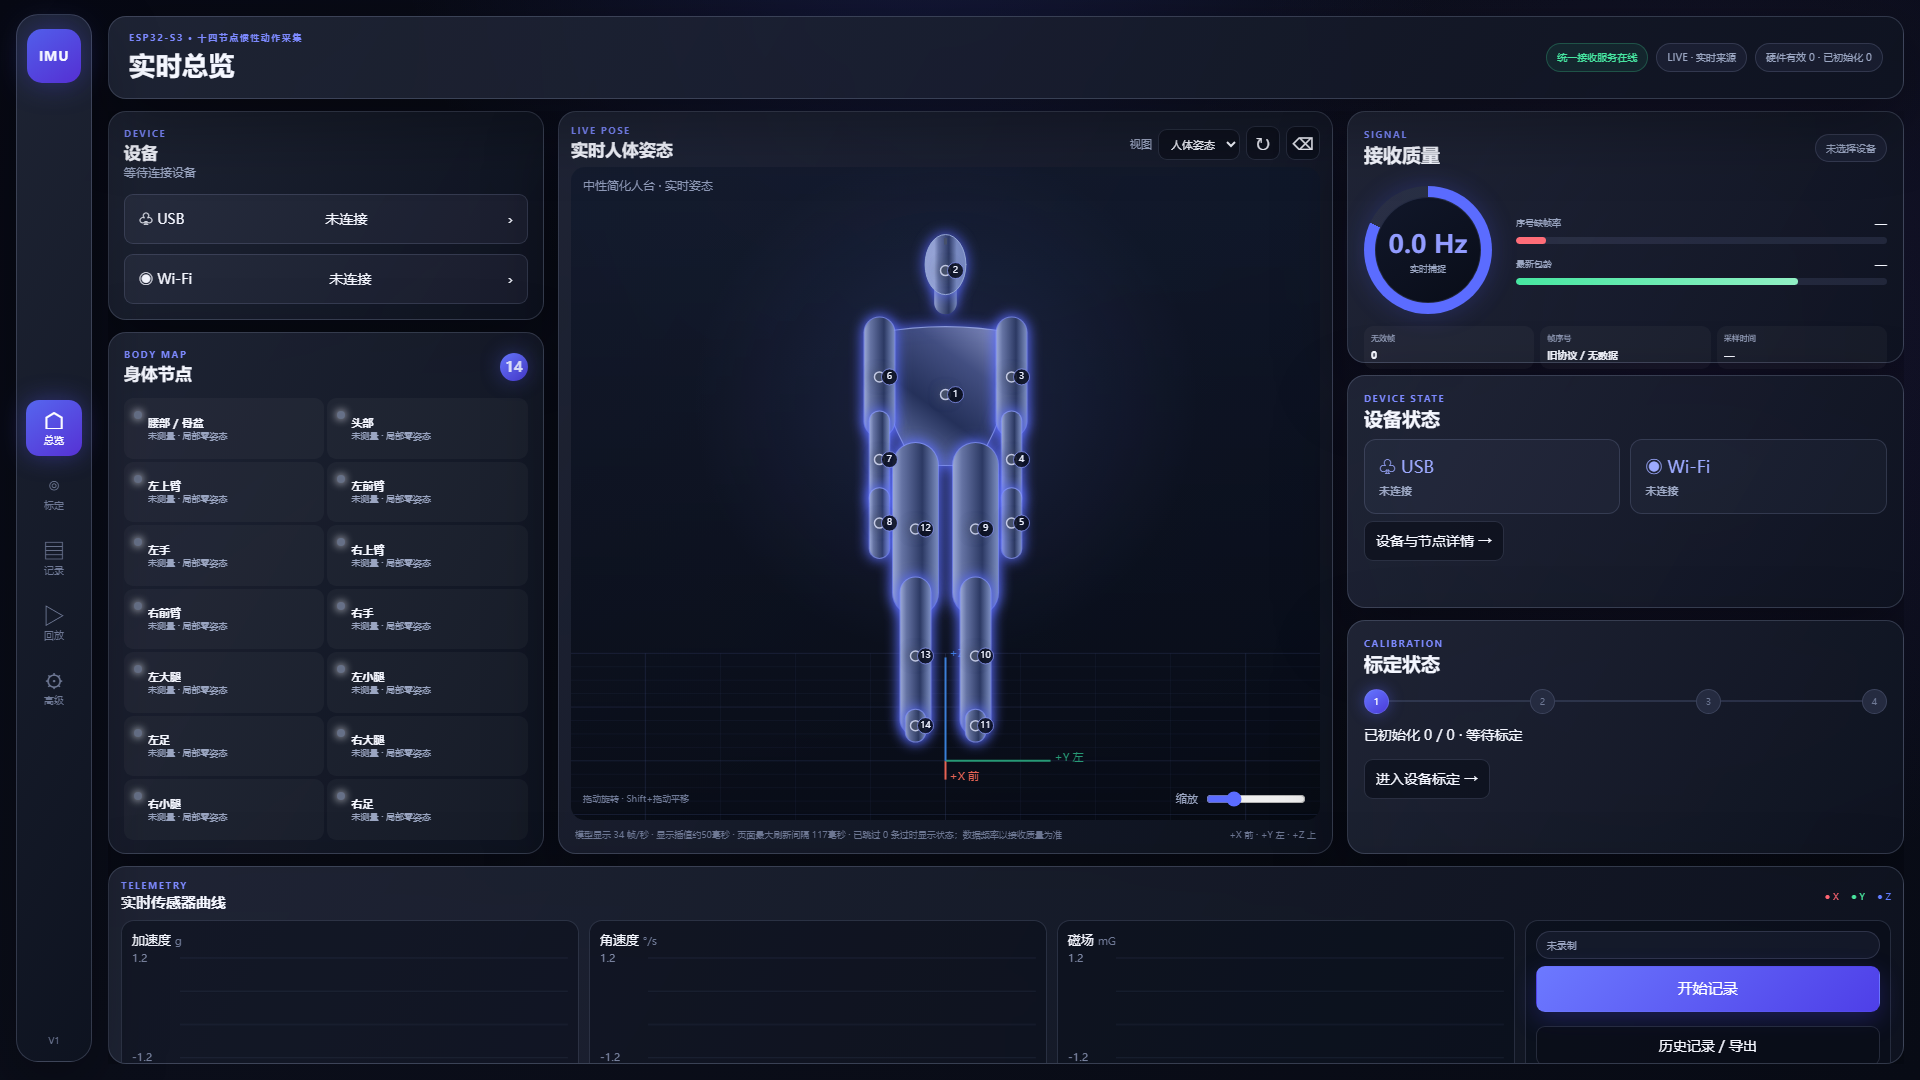
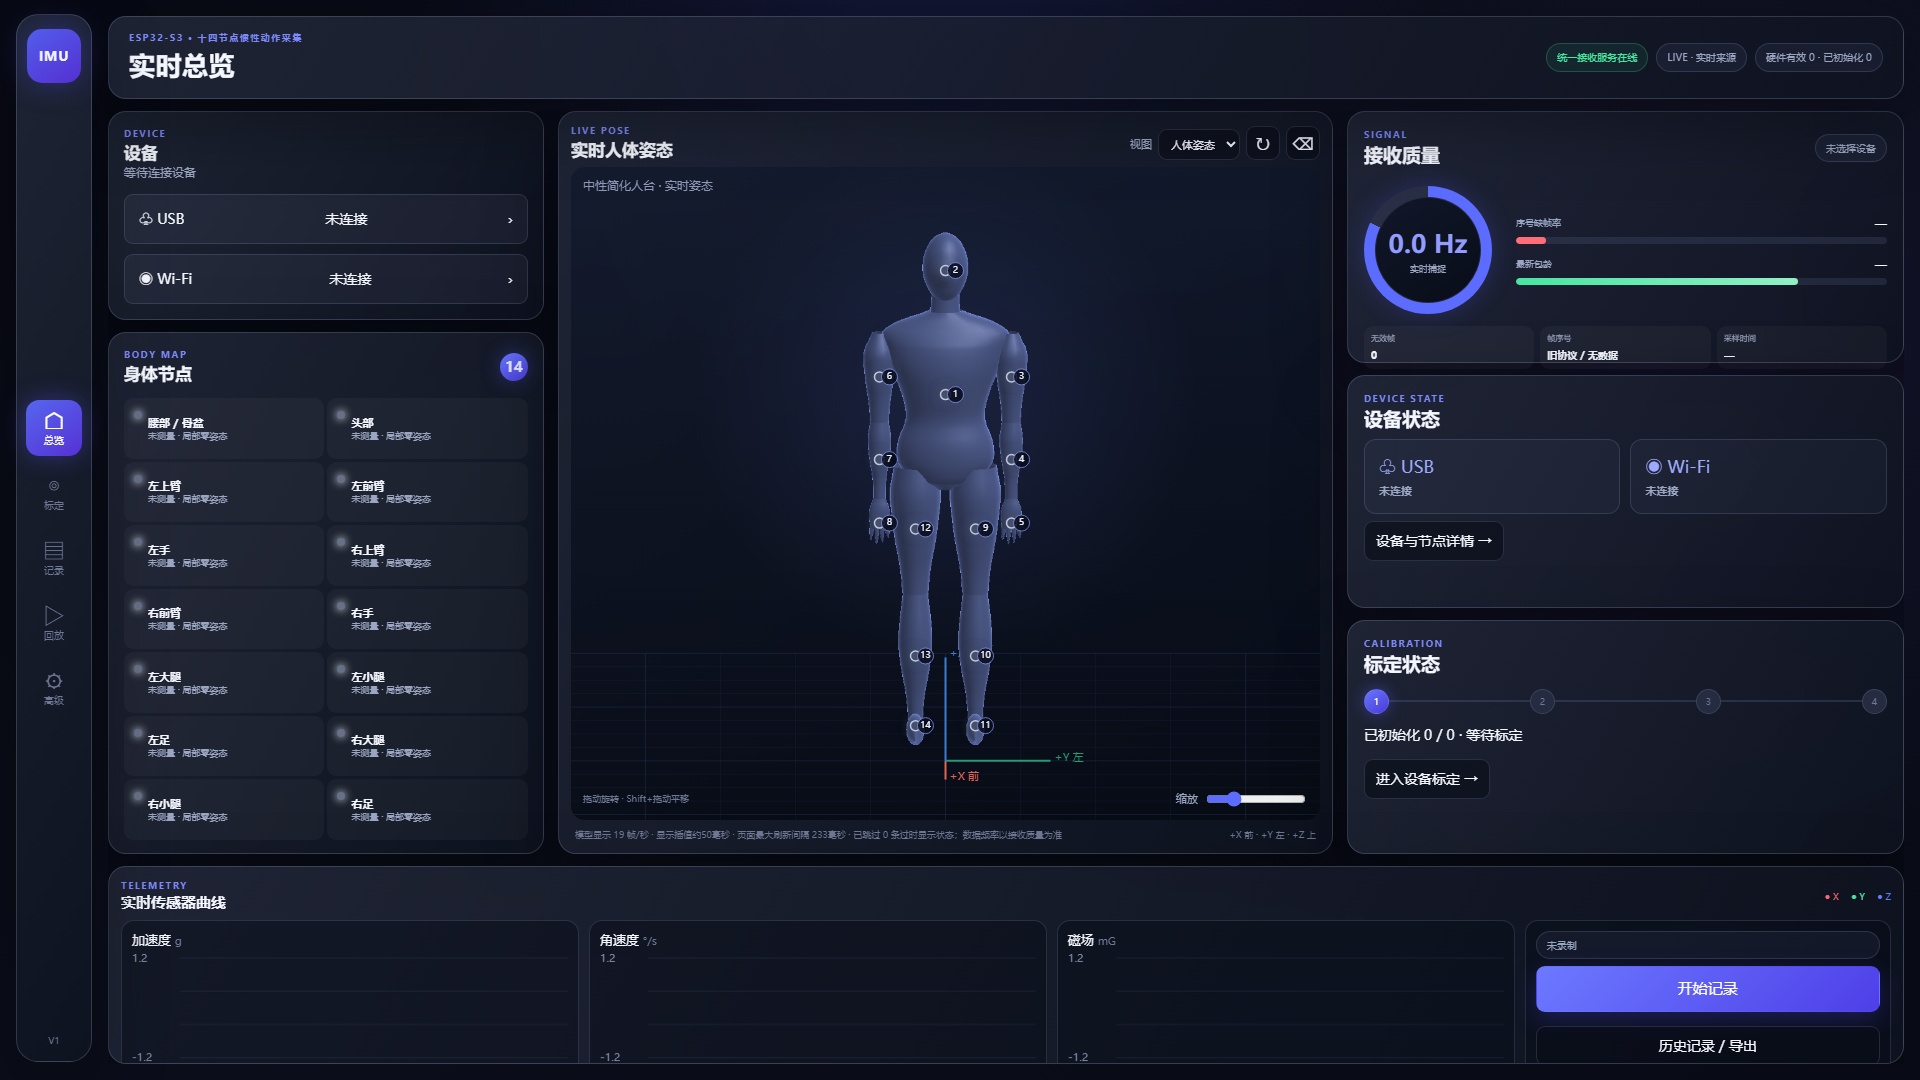
feat: replace capsule body with smooth procedural mannequin

Changed region(s): [[0.4375, 0.2139, 0.5625, 0.7028]]

diff --git a/host/web/mannequin.js b/host/web/mannequin.js
@@ -1,0 +1,92 @@
+"use strict";
+// Procedural surface illustration. All anchors come from the received skeleton;
+// no imported mesh, bitmap, physics or inferred joint motion is used.
+(function(root){
+  const add=(a,b)=>a.map((v,i)=>v+b[i]),sub=(a,b)=>a.map((v,i)=>v-b[i]),mul=(a,k)=>a.map(v=>v*k);
+  const dot=(a,b)=>a.reduce((s,v,i)=>s+v*b[i],0),cross=(a,b)=>[a[1]*b[2]-a[2]*b[1],a[2]*b[0]-a[0]*b[2],a[0]*b[1]-a[1]*b[0]];
+  const unit=a=>mul(a,1/(Math.hypot(...a)||1));
+  function rotate(v,q=[1,0,0,0]){const [w,x,y,z]=q,t=mul(cross([x,y,z],v),2);return add(v,add(mul(t,w),cross([x,y,z],t)));}
+  function interpolate(profile,t){const k=Math.min(profile.length-2,Math.floor(t*(profile.length-1))),f=t*(profile.length-1)-k,a=profile[Math.max(0,k-1)],b=profile[k],c=profile[k+1],d=profile[Math.min(profile.length-1,k+2)];return Math.max(.001,.5*((2*b)+(-a+c)*f+(2*a-5*b+4*c-d)*f*f+(-a+3*b-3*c+d)*f*f*f));}
+  function build(segments){
+    const map=Object.fromEntries(segments.map(s=>[s.id||s.slot,s])),faces=[];
+    function surface(rings,sides=20){
+      const normals=rings.map((ring,j)=>ring.map((p,i)=>unit(cross(sub(ring[(i+1)%sides],ring[(i+sides-1)%sides]),sub(rings[Math.min(rings.length-1,j+1)][i],rings[Math.max(0,j-1)][i])))));
+      for(let j=1;j<rings.length;j++)for(let i=0;i<sides;i++){
+        const next=(i+1)%sides,points=[rings[j-1][i],rings[j-1][next],rings[j][next],rings[j][i]];
+        const normal=unit(cross(sub(points[1],points[0]),sub(points[3],points[0])));
+        faces.push({points,normal,normals:[normals[j-1][i],normals[j-1][next],normals[j][next],normals[j][i]]});
+      }
+    }
+    function tube(a,b,profile,depth=1,sides=20,steps=12){
+      const axis=unit(sub(b,a)),u=unit(cross(axis,Math.abs(axis[0])<.8?[1,0,0]:[0,1,0])),v=unit(cross(axis,u)),rings=[];
+      for(let j=0;j<=steps;j++){const t=j/steps,r=interpolate(profile,t),center=add(a,mul(sub(b,a),t));rings.push(Array.from({length:sides},(_,i)=>{const angle=i/sides*2*Math.PI;return add(center,add(mul(u,r*Math.cos(angle)),mul(v,r*depth*Math.sin(angle))));}));}
+      surface(rings,sides);
+    }
+    const pelvis=map.pelvis;
+    if(pelvis){
+      const base=pelvis.start,q=pelvis.world_quaternion||[1,0,0,0],rows=[[-.075,.038,.05],[-.045,.115,.087],[.015,.16,.105],[.085,.158,.105],[.16,.132,.09],[.24,.145,.105],[.33,.18,.115],[.41,.205,.105],[.455,.21,.085],[.49,.155,.068],[.525,.056,.052]],rings=[];
+      // Elliptical trunk sections form one uninterrupted pelvis/waist/shoulder surface.
+      for(let k=0;k<rows.length-1;k++)for(let j=0;j<3;j++){const f=j/3,t=(k+f)/(rows.length-1),row=[rows[k][0]*(1-f)+rows[k+1][0]*f,interpolate(rows.map(r=>r[1]),t),interpolate(rows.map(r=>r[2]),t)];rings.push(Array.from({length:28},(_,i)=>{const angle=i/28*Math.PI*2;return add(base,rotate([row[2]*Math.cos(angle),row[1]*Math.sin(angle),row[0]],q));}));}
+      const row=rows.at(-1);rings.push(Array.from({length:28},(_,i)=>add(base,rotate([row[2]*Math.cos(i/28*Math.PI*2),row[1]*Math.sin(i/28*Math.PI*2),row[0]],q))));surface(rings,28);
+      const neck=map.head?.start||add(base,rotate([0,0,.55],q));tube(add(base,rotate([0,0,.49],q)),add(neck,rotate([0,0,.07],q)),[.053,.048,.046],.9);
+    }
+    for(const segment of segments){
+      const id=segment.id||segment.slot,a=segment.start,b=segment.end;if(!a||!b||id==="pelvis")continue;
+      if(id==="head"){
+        const q=segment.world_quaternion||[1,0,0,0],length=Math.hypot(...sub(b,a)),center=add(a,mul(sub(b,a),.54)),rings=[],sides=28;
+        for(let j=0;j<=22;j++){const phi=-Math.PI/2+j/22*Math.PI,ring=Math.max(.003,Math.cos(phi)),jaw=phi<-.15?.79+.21*(phi+Math.PI/2)/(Math.PI/2-.15):1;
+          rings.push(Array.from({length:sides},(_,i)=>{const theta=i/sides*2*Math.PI;let x=.084*ring*Math.cos(theta),y=.077*ring*Math.sin(theta)*jaw,z=length*.54*Math.sin(phi);const nose=Math.max(0,Math.cos(theta))**18*Math.exp(-(((phi+.07)/.22)**2))*.018;x+=nose;return add(center,rotate([x,y,z],q));}));}surface(rings,sides);
+      }else if(id.includes("upper_arm"))tube(a,b,[.025,.052,.052,.045,.036,.032],1.05);
+      else if(id.includes("forearm"))tube(a,b,[.031,.039,.037,.029,.022,.021],.95);
+      else if(id.includes("thigh"))tube(a,b,[.072,.086,.079,.068,.052,.044],1.12);
+      else if(id.includes("shank"))tube(a,b,[.042,.052,.057,.048,.032,.025],1.1);
+      else if(id.includes("hand")){
+        const delta=sub(b,a),palmEnd=add(a,mul(delta,.61));tube(a,palmEnd,[.021,.033,.035,.029],.5);
+        const side=rotate([0,1,0],segment.world_quaternion),axis=unit(delta);
+        for(let finger=0;finger<4;finger++){const spread=(finger-1.5)*.016,start=add(add(a,mul(delta,.53)),mul(side,spread)),end=add(add(a,mul(delta,.95-Math.abs(finger-1.3)*.09)),mul(side,spread*1.22));tube(start,end,[.008,.008,.006,.002],.8,10,6);}
+        tube(add(a,mul(delta,.21)),add(add(a,mul(delta,.65)),mul(side,.047)),[.012,.011,.006,.002],.8,12,6);
+      }else if(id.includes("foot")){
+        const delta=sub(b,a),q=segment.world_quaternion,down=rotate([0,0,-.04],q),toe=add(add(a,mul(delta,.82)),down);tube(add(a,mul(down,.15)),toe,[.026,.041,.047,.043,.024,.005],.65,20,12);
+      }
+    }
+    return faces;
+  }
+  function paint(ctx,segments,project,{yaw=0,elevation=.18,offset=[0,0,0]}={}){
+    const light=unit([.65,.5,.9]),view=[Math.cos(elevation)*Math.cos(yaw),Math.cos(elevation)*Math.sin(yaw),Math.sin(elevation)];
+    const projected=build(segments).map(face=>{const points=face.points.map(p=>project(add(p,offset))),depth=points.reduce((sum,p)=>sum+p[2],0)/4;return {...face,points,depth};}).sort((a,b)=>a.depth-b.depth);
+    if(root.OffscreenCanvas&&projected.length){
+      // Interpolate vertex lighting per pixel and depth-test the surface. This
+      // removes visible polygon bands and incorrect limb/torso intersections.
+      const points=projected.flatMap(face=>face.points),left=Math.floor(Math.min(...points.map(p=>p[0])))-2,top=Math.floor(Math.min(...points.map(p=>p[1])))-2,right=Math.ceil(Math.max(...points.map(p=>p[0])))+2,bottom=Math.ceil(Math.max(...points.map(p=>p[1])))+2;
+      const resolution=Math.min(1.6,1200/Math.max(1,bottom-top)),width=Math.max(1,Math.ceil((right-left)*resolution)),height=Math.max(1,Math.ceil((bottom-top)*resolution));
+      const buffer=new OffscreenCanvas(width,height),target=buffer.getContext("2d"),pixels=target.createImageData(width,height),depths=new Float32Array(width*height).fill(-Infinity),half=unit(add(light,view));
+      const shade=normal=>{let n=normal;if(dot(n,view)<0)n=mul(n,-1);const diffuse=Math.max(0,dot(n,light)),rim=(1-Math.abs(dot(n,view)))**4,spec=Math.max(0,dot(n,half))**24,k=.55+.5*diffuse+.25*rim;return [77,90,137].map((v,i)=>Math.min(255,v*k+rim*[57,67,108][i]+spec*40));};
+      for(const face of projected){const vertices=face.points.map((p,i)=>[(p[0]-left)*resolution,(p[1]-top)*resolution,p[2],...shade(face.normals[i])]);
+        for(const indices of [[0,1,2],[0,2,3]]){const [a,b,c]=indices.map(i=>vertices[i]),den=(b[1]-c[1])*(a[0]-c[0])+(c[0]-b[0])*(a[1]-c[1]);if(Math.abs(den)<1e-8)continue;
+          const x0=Math.max(0,Math.floor(Math.min(a[0],b[0],c[0]))),x1=Math.min(width-1,Math.ceil(Math.max(a[0],b[0],c[0]))),y0=Math.max(0,Math.floor(Math.min(a[1],b[1],c[1]))),y1=Math.min(height-1,Math.ceil(Math.max(a[1],b[1],c[1])));
+          for(let y=y0;y<=y1;y++)for(let x=x0;x<=x1;x++){const u=((b[1]-c[1])*(x+.5-c[0])+(c[0]-b[0])*(y+.5-c[1]))/den,v=((c[1]-a[1])*(x+.5-c[0])+(a[0]-c[0])*(y+.5-c[1]))/den,w=1-u-v;if(u<-.001||v<-.001||w<-.001)continue;const index=y*width+x,z=u*a[2]+v*b[2]+w*c[2];if(z<depths[index])continue;depths[index]=z;const pixel=index*4;for(let channel=0;channel<3;channel++)pixels.data[pixel+channel]=u*a[channel+3]+v*b[channel+3]+w*c[channel+3];pixels.data[pixel+3]=255;}
+        }
+      }
+      target.putImageData(pixels,0,0);ctx.drawImage(buffer,left,top,right-left,bottom-top);return projected.length;
+    }
+    ctx.save();ctx.lineJoin="round";ctx.lineWidth=.65;
+    for(const face of projected){
+      // Two-sided soft shading avoids holes where adjacent articulated surfaces overlap.
+      const colors=face.normals.map((normal,index)=>{let n=normal;if(dot(n,view)<0)n=mul(n,-1);const diffuse=Math.max(0,dot(n,light)),rim=(1-Math.abs(dot(n,view)))**4,spec=Math.max(0,dot(n,unit(add(light,view))))**24,shade=.55+.5*diffuse+.25*rim;const rgb=[77,90,137].map((v,i)=>Math.round(Math.min(255,v*shade+rim*[57,67,108][i]+spec*40)));return {point:face.points[index],brightness:rgb[0],color:`rgb(${rgb.join(",")})`};}).sort((a,b)=>a.brightness-b.brightness);
+      const low=colors[0],high=colors.at(-1),gradient=ctx.createLinearGradient?.(low.point[0],low.point[1],high.point[0],high.point[1]);
+      if(gradient?.addColorStop){gradient.addColorStop(0,low.color);gradient.addColorStop(1,high.color);}
+      ctx.fillStyle=ctx.strokeStyle=gradient||low.color;ctx.beginPath();face.points.forEach((p,i)=>i?ctx.lineTo(p[0],p[1]):ctx.moveTo(p[0],p[1]));ctx.closePath();ctx.fill();ctx.stroke();
+    }
+    ctx.restore();return projected.length;
+  }
+  const caches=new WeakMap();
+  function draw(ctx,segments,project,options={}){
+    if(!root.OffscreenCanvas||!ctx.canvas)return paint(ctx,segments,project,options);
+    const width=ctx.canvas.width,height=ctx.canvas.height,transform=ctx.getTransform();
+    const key=JSON.stringify([width,height,options,project([0,0,0]),project([1,1,1]),segments.map(s=>[s.id||s.slot,s.start,s.end,s.world_quaternion])]);
+    let cached=caches.get(ctx);
+    if(!cached||cached.key!==key){const canvas=new OffscreenCanvas(width,height),buffer=canvas.getContext("2d");buffer.setTransform(transform);const faces=paint(buffer,segments,project,options);cached={key,canvas,faces};caches.set(ctx,cached);}
+    ctx.save();ctx.setTransform(1,0,0,1,0,0);ctx.drawImage(cached.canvas,0,0);ctx.restore();return cached.faces;
+  }
+  root.MotionMannequin={build,draw};if(typeof module!=="undefined")module.exports=root.MotionMannequin;
+})(globalThis);

diff --git a/host/web/body_view.js b/host/web/body_view.js
@@ -1,5 +1,6 @@
 "use strict";
 (function(root) {
+  const mannequin=root.MotionMannequin||(typeof require==="function"?require("./mannequin.js"):null);
   const COLORS={measured:"#6679ff",online:"#6679ff",initialized:"#6679ff",uninitialized:"#f0b45d",missing:"#46506a",unmeasured:"#46506a",stale:"#f0b45d",disconnected:"#8c5360",conflict:"#ff6d78",invalid:"#ff6d78"};
   function listSegments(frame) {
     const source=frame?.segments||frame?.bones||{};
@@ -60,26 +61,7 @@
       }
       const segments=listSegments(frame);
       const bySegment=Object.fromEntries(segments.map(segment=>[segment.id||segment.slot,segment]));
-      // Paint a soft, neutral mannequin envelope behind the measured skeleton.
-      // It follows the same live joint anchors and contains no anatomical detail.
-      ctx.save();ctx.lineCap="round";ctx.lineJoin="round";ctx.globalAlpha=.95;ctx.shadowColor="#5b6cff";ctx.shadowBlur=14;
-      const torsoIds=["left_upper_arm","right_upper_arm","right_thigh","left_thigh"],torso=torsoIds.map(id=>bySegment[id]).filter(Boolean);
-      if(torso.length===4){
-        const outline=torso.map(segment=>project(translatePoint(segmentEnds(segment,frame)[0],rootOffset)));
-        const fill=ctx.createLinearGradient?.(outline[0][0],outline[0][1],outline[2][0],outline[2][1]);
-        if(fill?.addColorStop){fill.addColorStop(0,"#8993bf");fill.addColorStop(.32,"#414d7b");fill.addColorStop(.65,"#222e52");fill.addColorStop(1,"#6776a6");}
-        ctx.fillStyle=fill||"#414d7b";ctx.beginPath();const [l,r,hr,hl]=outline;ctx.moveTo(l[0],l[1]);ctx.quadraticCurveTo?.((l[0]+r[0])/2,l[1]-12,r[0],r[1]);ctx.lineTo(r[0],r[1]);ctx.quadraticCurveTo?.(r[0]-.02*scale,(r[1]+hr[1])/2,hr[0],hr[1]);ctx.lineTo(hr[0],hr[1]);ctx.lineTo(hl[0],hl[1]);ctx.quadraticCurveTo?.(l[0]+.02*scale,(l[1]+hl[1])/2,l[0],l[1]);ctx.closePath();ctx.fill();ctx.strokeStyle="rgba(181,197,255,.65)";ctx.lineWidth=1.2;ctx.stroke();
-      }
-      for(const segment of segments) {
-        const slot=segment.slot||segment.id||segment.body_slot,[start,end]=segmentEnds(segment,frame),a=project(translatePoint(start,rootOffset)),b=project(translatePoint(end,rootOffset));
-        const torso=/pelvis|torso|chest/.test(slot),upper=/upper_arm|thigh/.test(slot),head=slot==="head";
-        if(torso)continue;
-        const thigh=/thigh/.test(slot),shank=/shank/.test(slot),width=scale*(head?.075:thigh?.15:shank?.10:upper?.10:.065),gradient=ctx.createLinearGradient?.(a[0]-width/2,a[1],a[0]+width/2,a[1]);
-        if(gradient?.addColorStop){gradient.addColorStop(0,"#9ba9d4");gradient.addColorStop(.2,"#65739f");gradient.addColorStop(.65,"#29365b");gradient.addColorStop(1,"#7b8dbd");}
-        if(head){ctx.strokeStyle=gradient||"#65739f";ctx.lineWidth=width;ctx.beginPath();ctx.moveTo(a[0],a[1]);ctx.lineTo(a[0]+(b[0]-a[0])*.3,a[1]+(b[1]-a[1])*.3);ctx.stroke();ctx.fillStyle=gradient||"#65739f";ctx.beginPath();ctx.ellipse((a[0]+b[0])/2,(a[1]+b[1])/2-scale*.02,scale*.068,scale*.10,0,0,Math.PI*2);ctx.fill();ctx.strokeStyle="#99abd7";ctx.lineWidth=1;ctx.stroke();continue;}
-        ctx.strokeStyle="rgba(186,203,255,.6)";ctx.lineWidth=width+2;ctx.beginPath();ctx.moveTo(a[0],a[1]);ctx.lineTo(b[0],b[1]);ctx.stroke();ctx.strokeStyle=gradient||"#53638e";ctx.lineWidth=width;ctx.stroke();
-      }
-      ctx.restore();
+      mannequin?.draw(ctx,segments.map(segment=>{const [start,end]=segmentEnds(segment,frame);return {...segment,start,end};}),project,{yaw:this.yaw,elevation:this.elevation,offset:rootOffset});
       let segmentIndex=0;
       for(const segment of segments) {
         segmentIndex++;
@@ -92,7 +74,6 @@
         const node=[(a[0]+b[0])/2,(a[1]+b[1])/2];ctx.save();ctx.fillStyle=selected?"#9b72ff":color;ctx.shadowColor=ctx.fillStyle;ctx.shadowBlur=selected?20:12;for(const point of [node]){ctx.beginPath();ctx.arc(point[0],point[1],selected?7:5,0,Math.PI*2);ctx.fill();ctx.strokeStyle="rgba(225,230,255,.8)";ctx.lineWidth=1.5;ctx.stroke();}ctx.restore();
         const center=[(a[0]+b[0])/2,(a[1]+b[1])/2];ctx.save();ctx.fillStyle="rgba(8,12,29,.88)";ctx.strokeStyle="rgba(143,157,255,.72)";ctx.lineWidth=1;ctx.beginPath();ctx.arc(center[0]+10,center[1],8,0,Math.PI*2);ctx.fill();ctx.stroke();ctx.fillStyle="#eef1ff";ctx.font="9px system-ui";ctx.textAlign="center";ctx.textBaseline="middle";ctx.fillText(String(segmentIndex),center[0]+10,center[1]);ctx.restore();
         this.hits.push({slot,device_id:segment.device_id,a,b});
-        if(slot==="head"){const face=rotate([.12,0,0],segment.world_quaternion||[1,0,0,0]),tip=end.map((v,i)=>v+face[i]);line(b,project(translatePoint(tip,rootOffset)),color,3);}
         if(selected){[[.1,0,0],[0,.1,0],[0,0,.1]].forEach((axis,i)=>{const delta=rotate(axis,segment.world_quaternion||[1,0,0,0]);line(a,project(translatePoint(start.map((v,j)=>v+delta[j]),rootOffset)),["#e66354","#279975","#397fd7"][i],2);});}
       }
       ctx.font="12px system-ui";ctx.fillStyle="#8f9ab8";ctx.fillText(this.kind==="fixed"?`中性简化人台 · ${mode==="REPLAY"?"保存姿态回放":"实时姿态"}`:`独立位置来源：${positionSource==="off"?"关闭":positionSource}`,12,23);

diff --git a/host/web/index.html b/host/web/index.html
@@ -208,6 +208,7 @@
 
 <dialog id="recordDialog"><div class="section-heading"><h2>历史记录与回放</h2><button id="closeDialog">关闭</button></div><div class="buttons"><select id="sessions" aria-label="记录会话"></select><button id="preview">预览</button><button id="loadReplay">加载回放</button><button id="download">导出 ZIP</button></div><p id="sessionInfo" class="subtle"></p><div class="tableScroll"><table id="previewTable"></table></div></dialog>
 <script src="/static/session_archive.js?v=glass-v2-20261030" defer></script><script src="/static/navigation.js?v=glass-v2-20261030" defer></script>
-<script src="/static/pose_math.js?v=glass-v2-20261030" defer></script><script src="/static/body_view.js?v=glass-v2-20261030" defer></script><script src="/static/app.js?v=glass-v2-20261030" defer></script><script src="/static/direction_app.js?v=glass-v2-20261030" defer></script><script src="/static/body_app.js?v=glass-v2-20261030" defer></script>
+<script src="/static/mannequin.js?v=surface-v3-raster1" defer></script>
+<script src="/static/pose_math.js?v=glass-v2-20261030" defer></script><script src="/static/body_view.js?v=surface-v3-raster1" defer></script><script src="/static/app.js?v=glass-v2-20261030" defer></script><script src="/static/direction_app.js?v=glass-v2-20261030" defer></script><script src="/static/body_app.js?v=glass-v2-20261030" defer></script>
 </body>
 </html>

diff --git a/host/tests/test_mannequin.js b/host/tests/test_mannequin.js
@@ -1,0 +1,12 @@
+"use strict";
+const assert=require("node:assert/strict");
+const {build}=require("../web/mannequin.js");
+const config=require("../config/body_v1.json"),segments=[],map={};
+for(const spec of config.segments){const parent=map[spec.parent],anchor=spec.anchor_at_parent_tip?parent.end:(parent?parent.start:config.root_position),start=spec.anchor_at_parent_tip?[...anchor]:anchor.map((v,i)=>v+spec.anchor[i]),end=start.map((v,i)=>v+spec.direction[i]*spec.length),segment={id:spec.id,start,end,world_quaternion:[1,0,0,0]};map[spec.id]=segment;segments.push(segment);}
+const saved=JSON.stringify(segments),faces=build(segments);
+assert.ok(faces.length>2000);assert.equal(JSON.stringify(segments),saved);
+assert.ok(faces.every(face=>face.points.every(p=>p.length===3&&p.every(Number.isFinite))&&face.normals.every(n=>n.every(Number.isFinite))));
+assert.deepEqual(build([]),[]);
+const moved=structuredClone(segments);moved.find(s=>s.id==="left_forearm").end[0]+=.3;
+assert.notDeepEqual(build(moved),faces);assert.equal(JSON.stringify(segments),saved);
+console.log("Mannequin: complete finite surface, live anchor deformation and source immutability passed");
